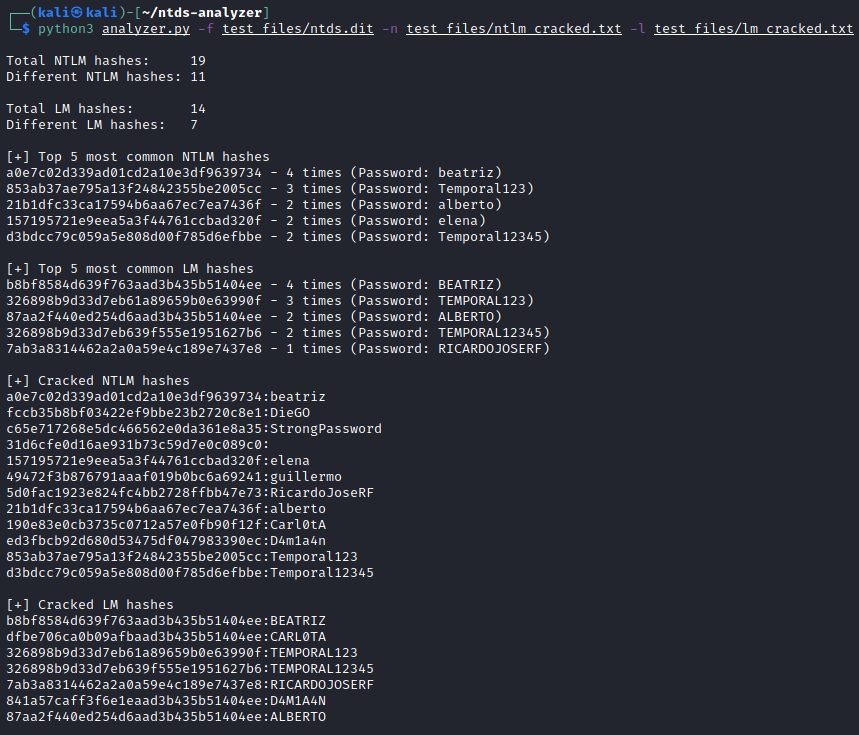
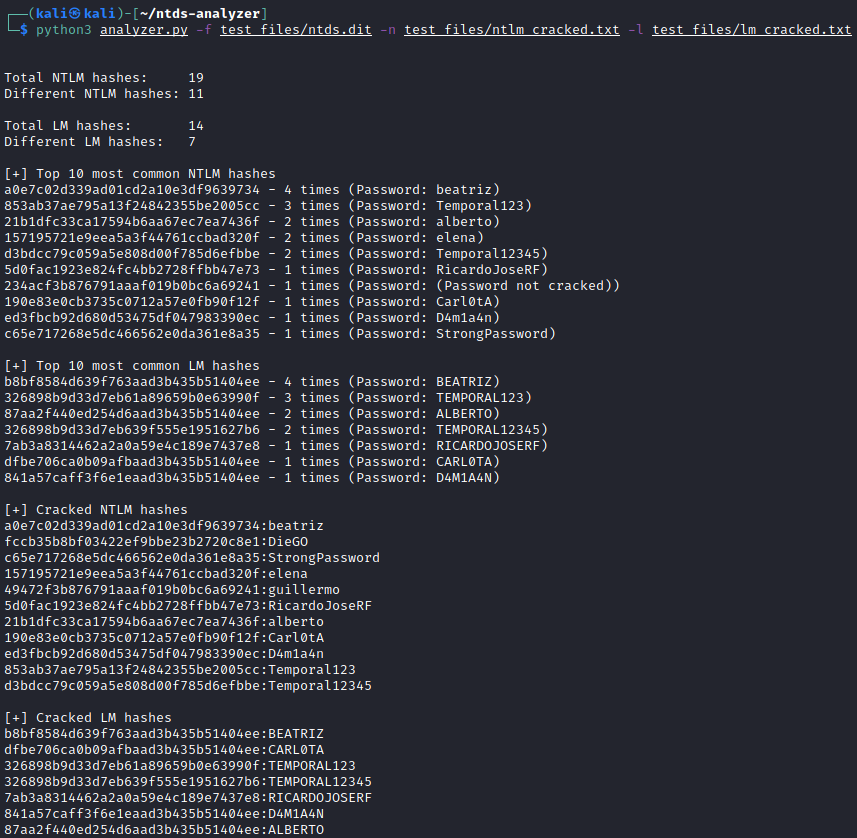
Fixed bugs

Changed region(s): [[0.0, 0.0, 0.7281, 1.0], [0.7585, 0.0299, 1.0, 0.0599]]

diff --git a/README.md b/README.md
@@ -2,14 +2,18 @@
 
 A tool to analyze hashes in Ntds.dit files once the NTLM and LM hashes have been cracked.
 
+- Top most common NTLM and LM hashes
 
-- Information about occurrence of the hashes
-
-- Most common NTLM and LM hashes
-
-- It calculates the password when the LM hash has been cracked but the NTLM not (explained [here](https://github.com/ricardojoserf/LM_original_password_cracker))
+- Calculate the plaintext password when the LM hash has been cracked but not the NTLM (explained [here](https://github.com/ricardojoserf/LM_original_password_cracker))
 
 - List of credentials in *user:password* format
+
+
+### Usage
+
+```
+python3 analyzer.py -f NTDS.DIT -n NTLM_CRACKED_HASHES -l LM_CRACKED_HASHES
+```
 
 ### Example
 
@@ -17,7 +21,7 @@ A tool to analyze hashes in Ntds.dit files once the NTLM and LM hashes have been
 python3 analyzer.py -f test_files/ntds.dit -n test_files/ntlm_cracked.txt -l test_files/lm_cracked.txt
 ```
 
-We have cracked 6 NTLM hashes and 7 LM hashes:
+We have cracked 6 NTLM hashes and 7 LM hashes using [Hashcat](https://github.com/hashcat/hashcat):
 
 ![Image0](images/image0.png)
 
